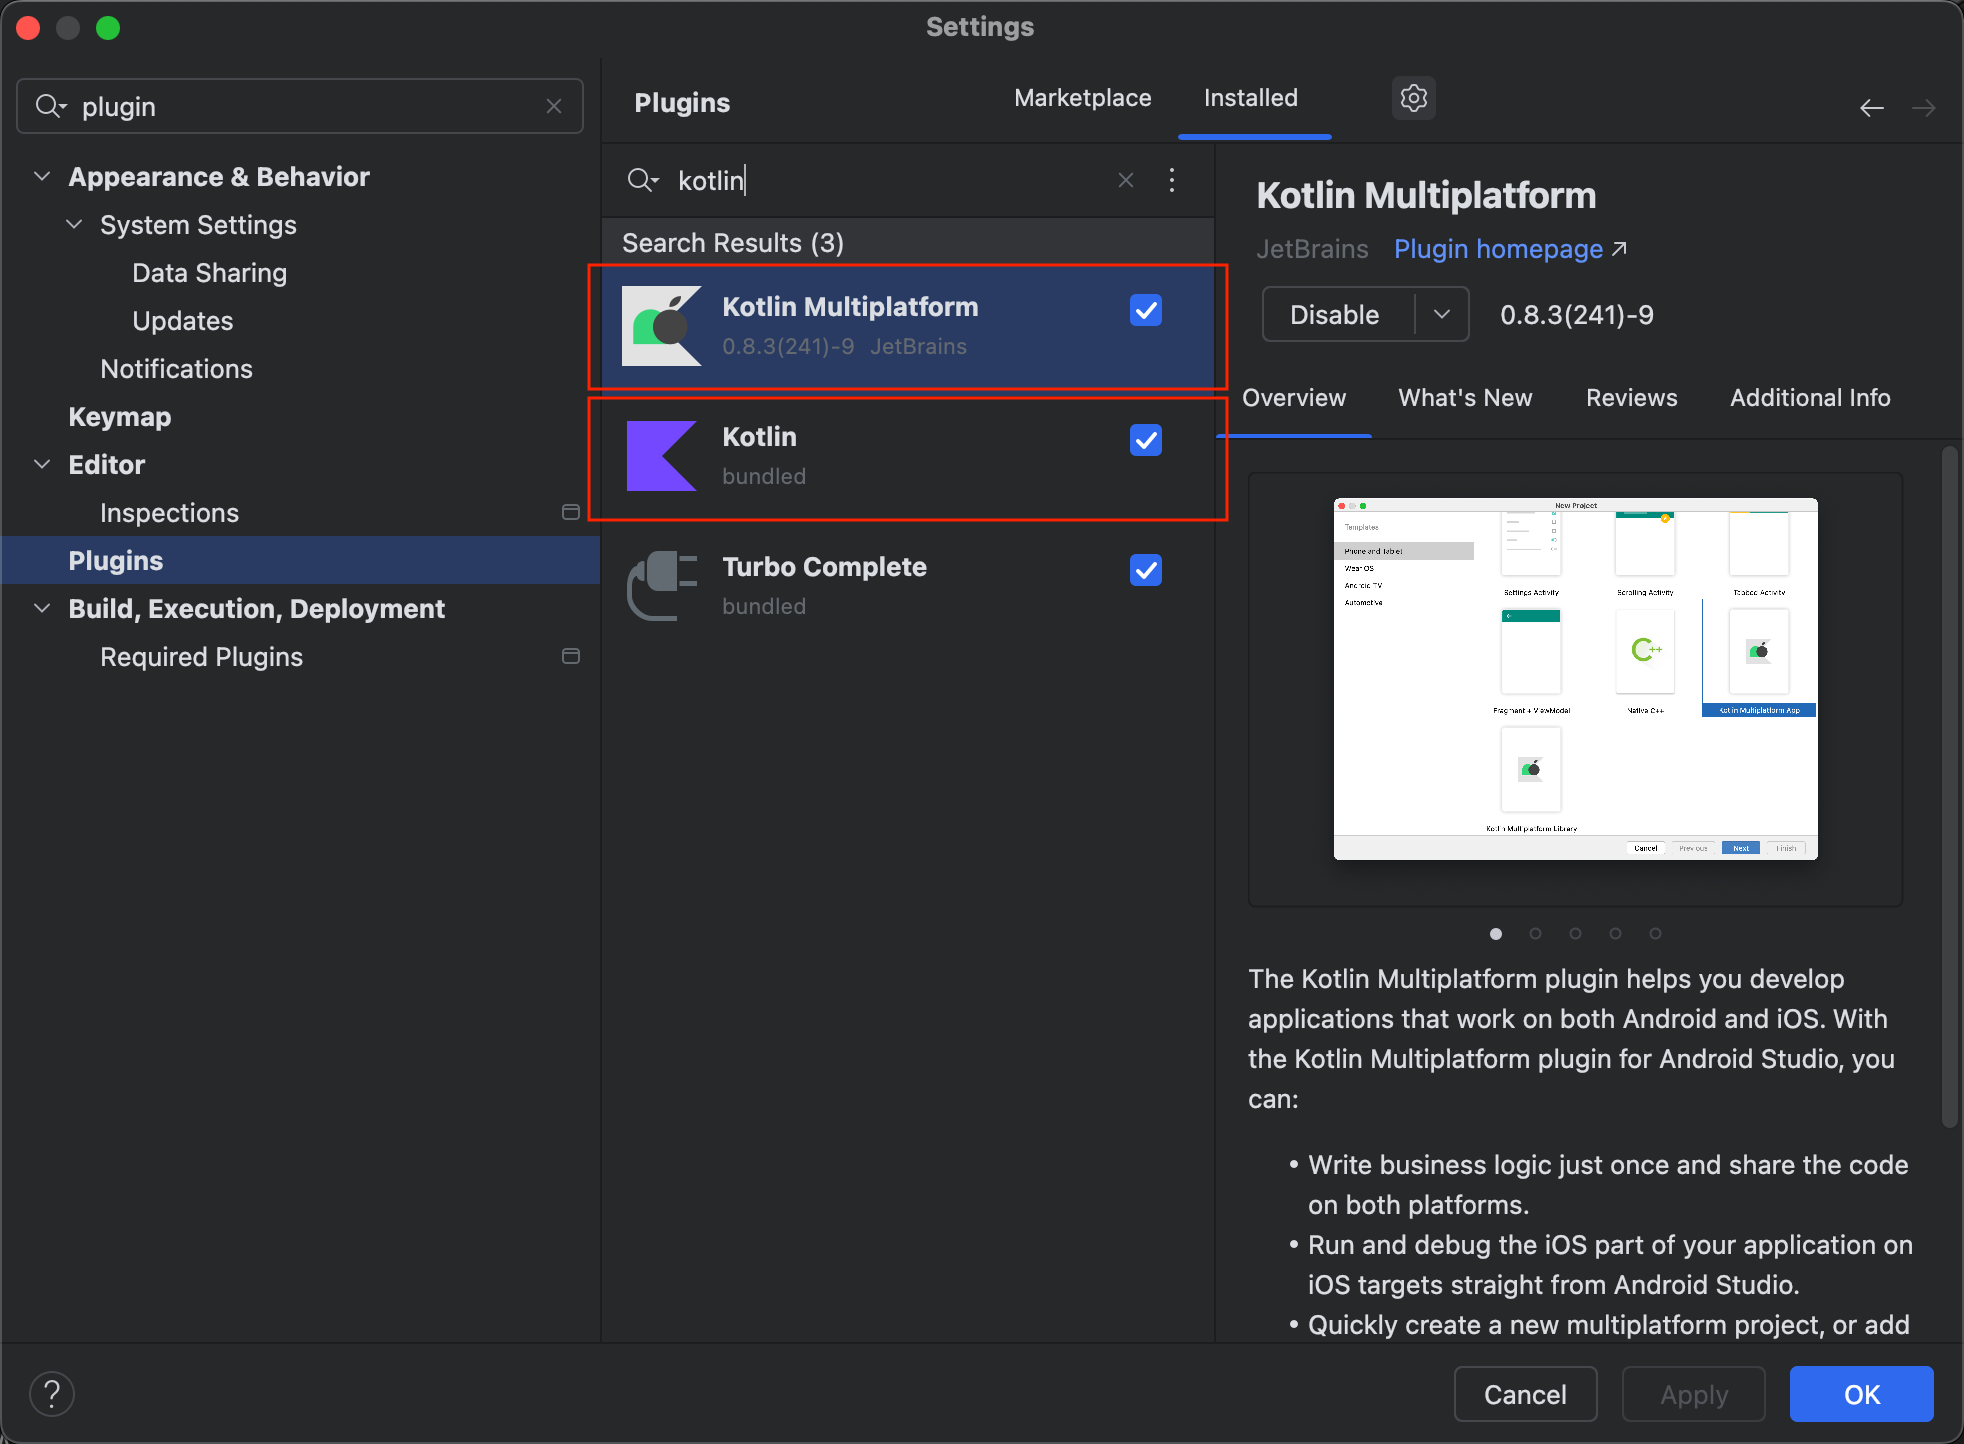
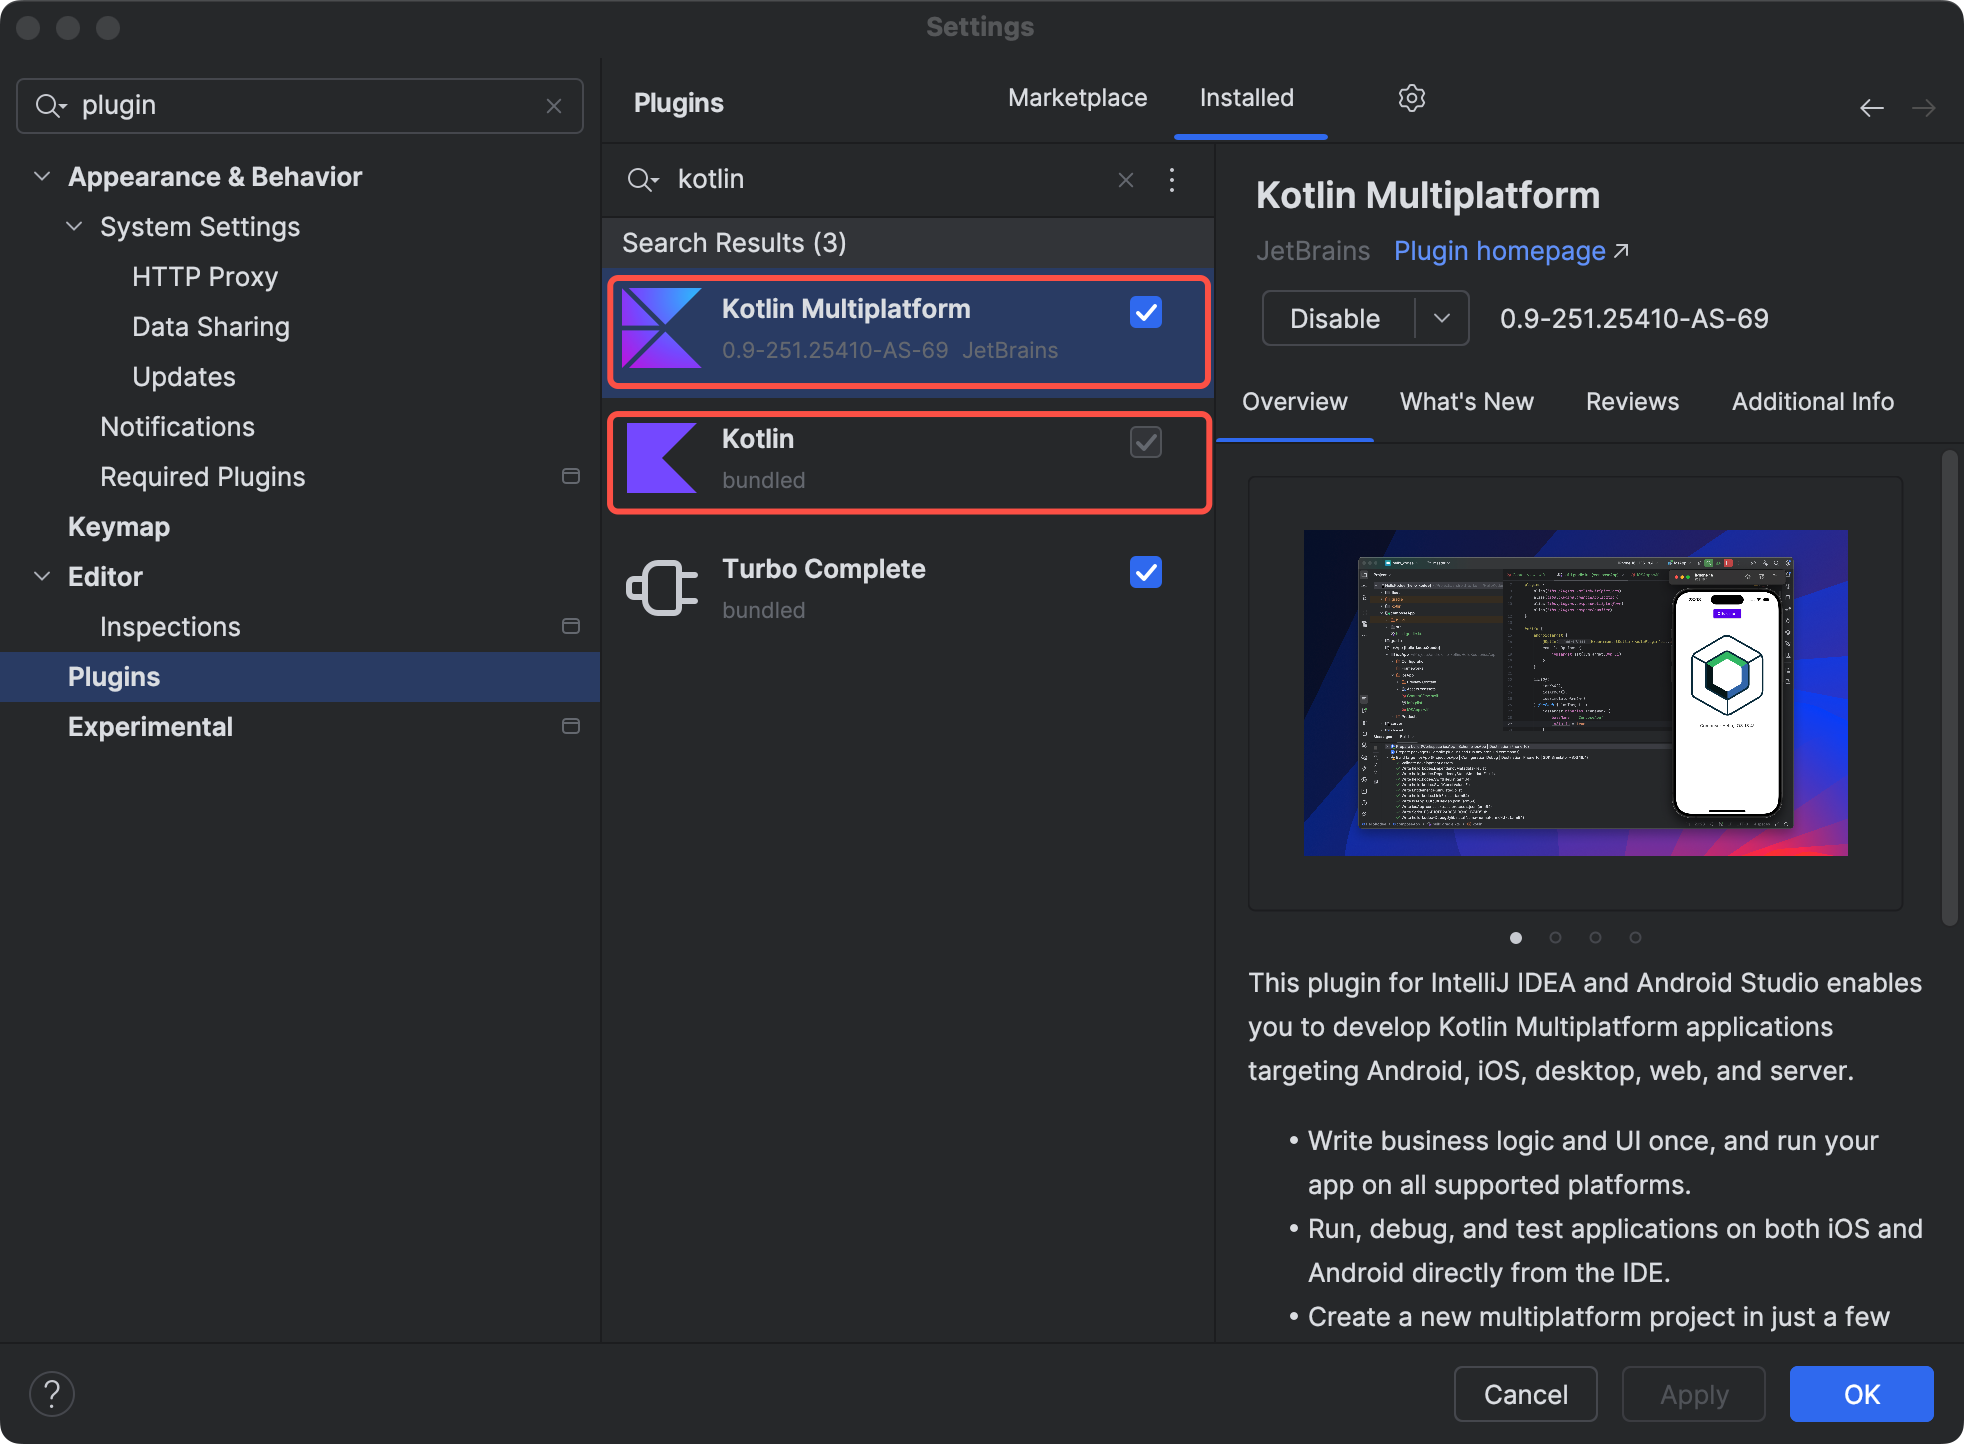
docs(ios): update configuration screenshot (#1154)

diff --git a/docs/QuickStart/common.md b/docs/QuickStart/common.md
@@ -56,14 +56,14 @@
 ## 运行iosApp
 
 1. 如果是首次运行iOS的话，需要先进入iosApp目录，执行`pod install --repo-update`。
-2. 将运行的scheme改为iosApp
+2. 工具栏下拉框中选择iosApp，并在左侧选择要运行的目标设备或者模拟器。
 
-![](./img/run_config_step.png)
-![](./img/iosApp_scheme.png)
+![](../../img/run_config_step.png)
+![](../../img/select_device_step.png)
 
 3. 运行``iosApp``
 
-![运行iosApp](./img/ios_app_run.png)
+![运行iosApp](../../img/ios_app_run.png)
 
 4. 当手机出现下面界面时，说明已运行成功
 

diff --git a/docs/QuickStart/hello-world.md b/docs/QuickStart/hello-world.md
@@ -42,14 +42,14 @@
 ## 运行iosApp
 
 1. 如果是首次运行iOS的话，需要先进入iosApp目录，执行`pod install --repo-update`。
-2. 将运行的scheme改为iosApp
+2. 工具栏下拉框中选择iosApp，并在左侧选择要运行的目标设备或者模拟器。
 
-![](./img/run_config_step.png)
-![](./img/iosApp_scheme.png)
+![](../../img/run_config_step.png)
+![](../../img/select_device_step.png)
 
 3. 运行``iosApp``
 
-![运行iosApp](./img/ios_app_run.png)
+![运行iosApp](../../img/ios_app_run.png)
 
 4. 当手机出现下面界面时，说明已运行成功
 
